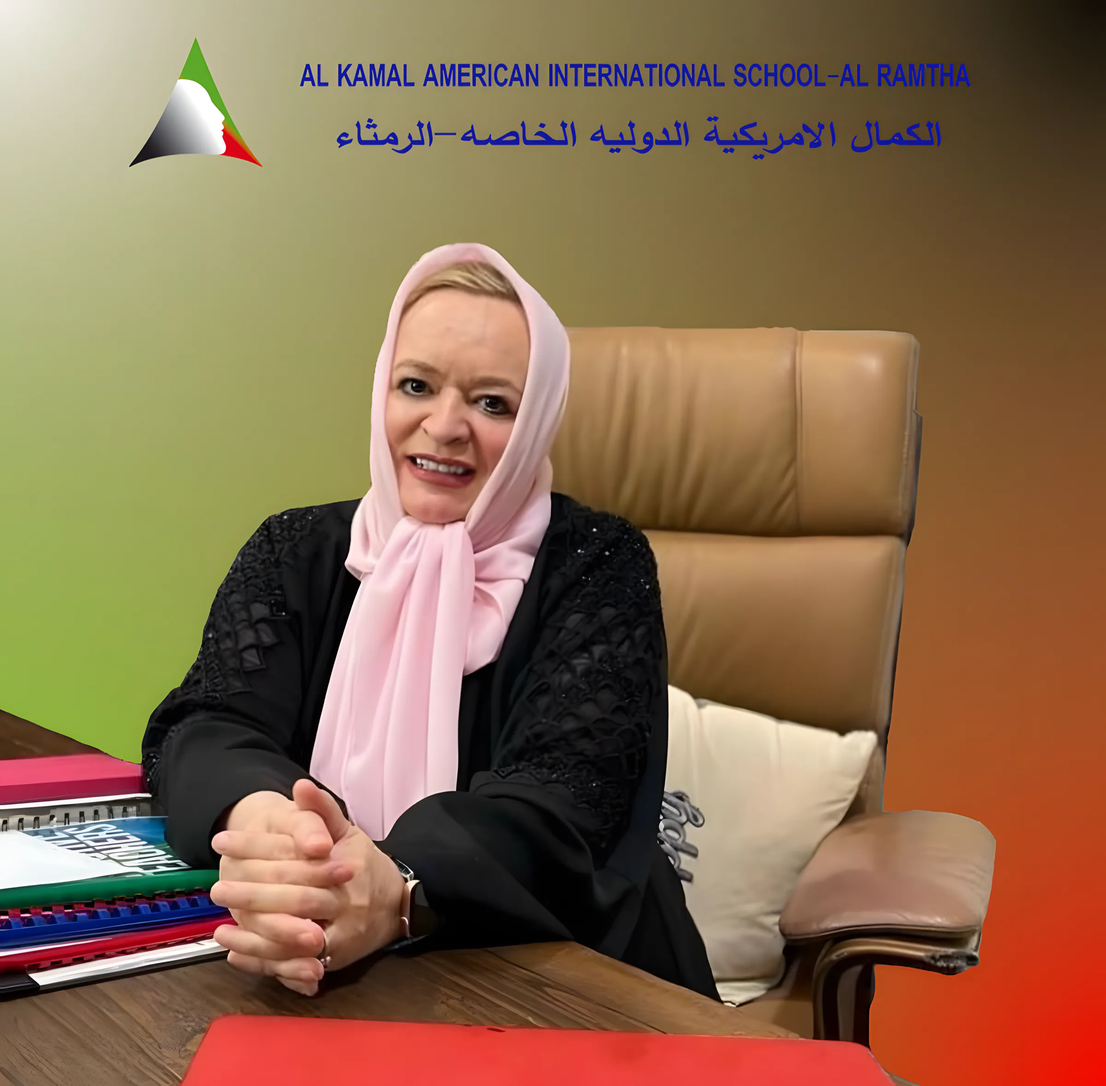
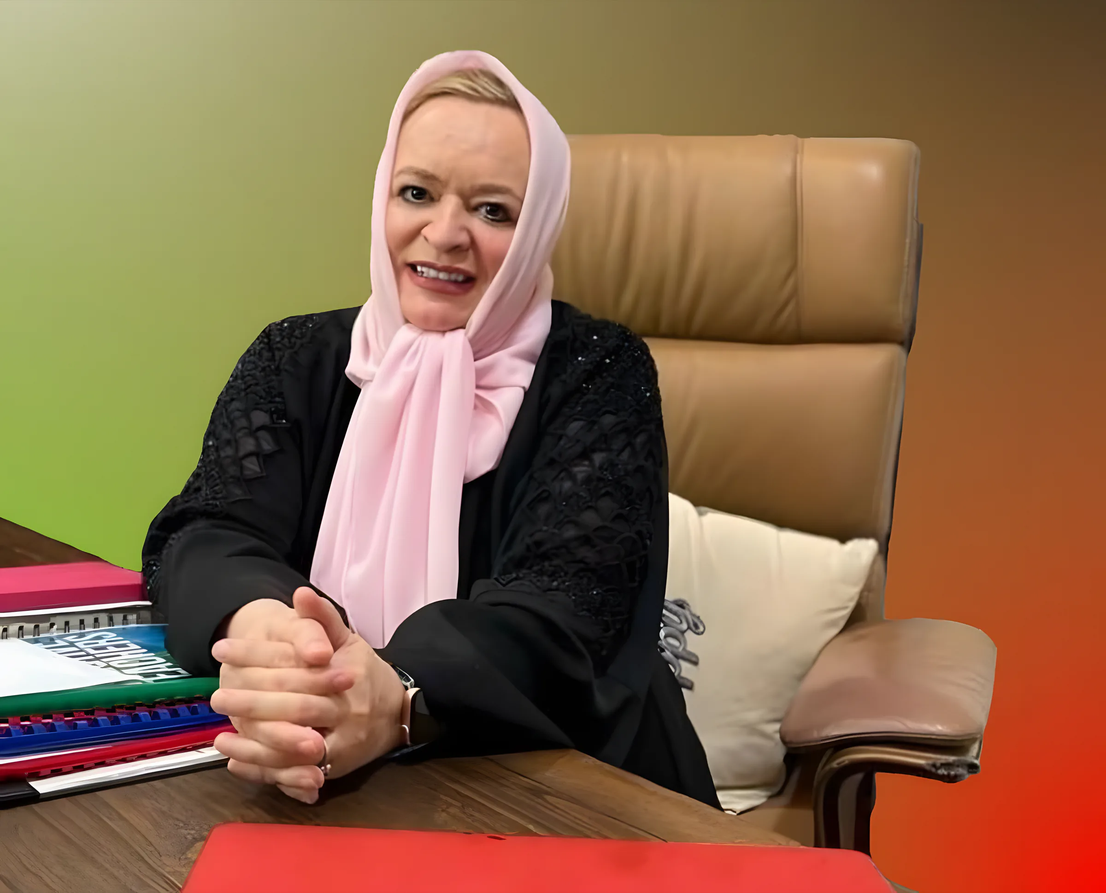
Update concepts 2026-10-30 09:18

diff --git a/al-kamal-american-ramtha/services.html b/al-kamal-american-ramtha/services.html
@@ -1,0 +1,260 @@
+<!doctype html>
+<html lang="en" dir="ltr">
+<head>
+<meta charset="utf-8">
+<meta name="viewport" content="width=device-width, initial-scale=1">
+<meta name="robots" content="noindex, nofollow">
+<title>Admissions &amp; fees 2026–27 | Al Kamal American International School, Al Ramtha</title>
+<meta name="description" content="Fees for every grade from KG1 to Grade 12 in 2026–27, school bus fees, the 12 documents you need, the school day and the external tests.">
+<link rel="alternate" hreflang="en" href="https://preview.websmith.ae/al-kamal-american-ramtha/services.html">
+<link rel="alternate" hreflang="ar" href="https://preview.websmith.ae/al-kamal-american-ramtha/ar/services.html">
+<link rel="icon" href="img/emblem.webp">
+<link rel="preconnect" href="https://fonts.googleapis.com"><link rel="preconnect" href="https://fonts.gstatic.com" crossorigin>
+<link rel="stylesheet" href="https://fonts.googleapis.com/css2?family=Bricolage+Grotesque:opsz,wght@12..96,500;12..96,700;12..96,800&family=Work+Sans:wght@400;500;600&family=Tajawal:wght@500&display=swap">
+<link rel="stylesheet" href="kit.css">
+<link rel="stylesheet" href="site.css">
+<script>document.documentElement.classList.add('k-js')</script>
+</head>
+<body>
+<a class="skip" href="#main">Skip to content</a>
+
+<header class="hdr">
+  <div class="hdr__in">
+    <a class="brand" href="./"><img src="img/emblem.webp" alt="" width="46" height="46"><span><b>Al Kamal American</b><small>International School · Al Ramtha</small></span></a>
+    <nav class="nav" aria-label="Main">
+      <a class="k-link" href="./">Home</a>
+      <a class="k-link" href="services.html" aria-current="page">Admissions &amp; fees</a>
+      <a class="k-link" href="about.html">About the school</a>
+      <a class="k-link" href="./#find">Find us</a>
+    </nav>
+    <a class="hdr__tel" href="tel:+97165383136"><span class="k-roll"><span data-text="06 538 3136">06 538 3136</span></span></a>
+    <a class="hdr__lang" href="ar/services.html" lang="ar" hreflang="ar">عربي</a>
+    <a class="hdr__tab" href="#register">Register 2026–27 <span class="k-arrow" aria-hidden="true">→</span></a>
+  </div>
+  <nav class="mnav" aria-label="Main (mobile)">
+    <a href="./">Home</a><a href="services.html" aria-current="page">Admissions &amp; fees</a><a href="about.html">About</a><a href="./#find">Find us</a><a href="tel:+97165383136">Call</a>
+  </nav>
+</header>
+
+<main id="main">
+<section class="phead">
+  <div class="wrap">
+    <h1 data-reveal="lines">Admissions &amp; fees</h1>
+    <p data-reveal>Everything you need to register a child for 2026–27: what each grade costs, the school bus, the papers to bring, the school day and the tests your child will sit.</p>
+    <nav class="jump" aria-label="On this page" data-reveal>
+      <a class="k-link" href="#fees">Fees</a><a class="k-link" href="#bus">School bus</a><a class="k-link" href="#register">How to register</a><a class="k-link" href="#documents">Documents</a><a class="k-link" href="#day">School day</a><a class="k-link" href="#tests">Tests</a><a class="k-link" href="#policies">Policies</a>
+    </nav>
+  </div>
+</section>
+
+<section class="block" id="fees" aria-labelledby="fees-h">
+  <div class="wrap block__grid">
+    <div class="block__aside">
+      <h2 id="fees-h" data-reveal="lines">Fees 2026–27</h2>
+      <p>In dirhams, for the full year. The annual fee includes books; uniform is bought at school and includes 5% VAT.</p>
+      <p><a class="k-link k-link--under" href="https://files.reportz.co.in/company139/uploads/2025_26/Fee%202026-2027%20Updated%205-7-26.pdf" target="_blank" rel="noopener">The official fee schedule (PDF)</a></p>
+    </div>
+    <div>
+      <div class="tbl-wrap" tabindex="0" role="region" aria-label="Fee table, scroll sideways on small screens">
+        <table class="tbl">
+          <thead><tr><th scope="col">Grade</th><th scope="col">Annual fee incl. books</th><th scope="col">Uniform</th><th scope="col">Total</th><th scope="col">1st payment, cash</th><th scope="col">2nd, cheque 1 Dec</th><th scope="col">3rd, cheque 1 Mar</th></tr></thead>
+          <tbody>
+            <tr><th scope="row">KG1</th><td>9,214</td><td>302</td><td class="tot">9,516</td><td>4,348</td><td>2,584</td><td>2,584</td></tr>
+            <tr><th scope="row">KG2</th><td>9,315</td><td>302</td><td class="tot">9,617</td><td>4,448</td><td>2,585</td><td>2,585</td></tr>
+            <tr class="grp"><th scope="row">Grade 1</th><td>10,505</td><td>362</td><td class="tot">10,867</td><td>5,389</td><td>2,739</td><td>2,739</td></tr>
+            <tr><th scope="row">Grade 2</th><td>11,011</td><td>362</td><td class="tot">11,373</td><td>5,591</td><td>2,891</td><td>2,891</td></tr>
+            <tr><th scope="row">Grade 3</th><td>12,707</td><td>362</td><td class="tot">13,069</td><td>6,375</td><td>3,347</td><td>3,347</td></tr>
+            <tr><th scope="row">Grade 4</th><td>13,214</td><td>362</td><td class="tot">13,576</td><td>6,578</td><td>3,499</td><td>3,499</td></tr>
+            <tr><th scope="row">Grade 5</th><td>13,720</td><td>362</td><td class="tot">14,082</td><td>6,780</td><td>3,651</td><td>3,651</td></tr>
+            <tr class="grp"><th scope="row">Grade 6</th><td>14,479</td><td>423</td><td class="tot">14,902</td><td>7,295</td><td>3,804</td><td>3,804</td></tr>
+            <tr><th scope="row">Grade 7</th><td>14,985</td><td>423</td><td class="tot">15,408</td><td>7,497</td><td>3,956</td><td>3,956</td></tr>
+            <tr><th scope="row">Grade 8</th><td>15,745</td><td>423</td><td class="tot">16,168</td><td>7,951</td><td>4,109</td><td>4,109</td></tr>
+            <tr><th scope="row">Grade 9</th><td>16,251</td><td>423</td><td class="tot">16,674</td><td>8,153</td><td>4,260</td><td>4,260</td></tr>
+            <tr class="grp"><th scope="row">Grade 10</th><td>28,000</td><td>630</td><td class="tot">28,630</td><td>13,390</td><td>7,620</td><td>7,620</td></tr>
+            <tr><th scope="row">Grade 11</th><td>29,000</td><td>630</td><td class="tot">29,630</td><td>14,270</td><td>7,680</td><td>7,680</td></tr>
+            <tr><th scope="row">Grade 12</th><td>31,000</td><td>630</td><td class="tot">31,630</td><td>15,070</td><td>8,280</td><td>8,280</td></tr>
+          </tbody>
+        </table>
+      </div>
+      <ul class="plist" style="margin-top:34px" data-reveal-stagger>
+        <li data-reveal>The first instalment is paid in cash, together with books and uniform. The second and third are post-dated cheques for 1 December and 1 March.</li>
+        <li data-reveal>Registration fee: AED 500, non-refundable, and taken off your child's tuition.</li>
+        <li data-reveal>Cheques are payable to "AL KAMAL AMERICAN PRIVATE SCHOOL". Third-party and company cheques aren't accepted; a bounced cheque costs AED 500.</li>
+        <li data-reveal>All dues must be cleared before re-registering for the next year. Questions about fees: <a class="k-link k-link--under" href="mailto:accountant@akaisramtha.com">accountant@akaisramtha.com</a></li>
+      </ul>
+    </div>
+  </div>
+</section>
+
+<section class="block" id="bus" aria-labelledby="bus-h">
+  <div class="wrap block__grid">
+    <div class="block__aside">
+      <h2 id="bus-h" data-reveal="lines">School bus</h2>
+      <p>Door-to-school transport from four emirates, paid by term.</p>
+    </div>
+    <div>
+      <div class="tbl-wrap" tabindex="0" role="region" aria-label="Bus fee table">
+        <table class="tbl" style="min-width:520px">
+          <thead><tr><th scope="col">From</th><th scope="col">Year</th><th scope="col">Term 1</th><th scope="col">Term 2</th><th scope="col">Term 3</th></tr></thead>
+          <tbody>
+            <tr><th scope="row">Sharjah</th><td class="tot">4,800</td><td>1,920</td><td>1,440</td><td>1,440</td></tr>
+            <tr><th scope="row">Ajman</th><td class="tot">4,800</td><td>1,920</td><td>1,440</td><td>1,440</td></tr>
+            <tr><th scope="row">Dubai</th><td class="tot">6,000</td><td>2,400</td><td>1,800</td><td>1,800</td></tr>
+            <tr><th scope="row">Umm Al Quwain</th><td class="tot">6,000</td><td>2,400</td><td>1,800</td><td>1,800</td></tr>
+          </tbody>
+        </table>
+      </div>
+      <p class="fine">Read the <a class="k-link k-link--under" href="https://storage.googleapis.com/t360-filesnew/company139/digital_resources/22-01-2025-359745826.pdf" target="_blank" rel="noopener">school bus policy</a> and the <a class="k-link k-link--under" href="https://storage.googleapis.com/t360-filesnew/company139/digital_resources/22-01-2025-1335307872.pdf" target="_blank" rel="noopener">bus rules</a> (PDF).</p>
+    </div>
+  </div>
+</section>
+
+<section class="block" id="register" aria-labelledby="reg-h">
+  <div class="wrap block__grid">
+    <div class="block__aside">
+      <h2 id="reg-h" data-reveal="lines">How to register</h2>
+      <p>The registrar's office handles new families. Call first and they'll tell you if there's a seat in your child's grade.</p>
+    </div>
+    <div>
+      <ol class="steps" style="grid-template-columns:1fr 1fr" data-reveal-stagger>
+        <li data-reveal><h3>Ask about a seat</h3><p>Call or WhatsApp 06 538 3136 with your child's grade for next year.</p></li>
+        <li data-reveal><h3>Gather the papers</h3><p>The full list of 12 is just below. Incomplete documents mean the registration isn't done.</p></li>
+        <li data-reveal><h3>Register</h3><p>Pay the AED 500 registration fee and send the documents to info@akaisramtha.com, or bring them to the registrar.</p></li>
+        <li data-reveal><h3>First instalment</h3><p>In cash, with books and uniform. Two cheques cover the rest of the year.</p></li>
+      </ol>
+      <div class="pic" data-reveal="clip"><img src="img/kg-class.webp" alt="KG children in class showing their crafts" loading="lazy"></div>
+    </div>
+  </div>
+</section>
+
+<section class="block" id="documents" aria-labelledby="docs-h">
+  <div class="wrap block__grid">
+    <div class="block__aside">
+      <h2 id="docs-h" data-reveal="lines">The 12 documents</h2>
+      <p>Bring originals where it says so. New students bring the original Emirates IDs on the first visit.</p>
+    </div>
+    <ol class="docs" data-reveal="fade">
+      <li>Copy of your child's passport with a valid residence visa page</li>
+      <li>Two copies of your child's birth certificate</li>
+      <li>Copies of the father's and mother's passports with valid residence visa pages</li>
+      <li>Copies of the Emirates ID, both sides, for father, mother and student</li>
+      <li>Copy of the family book (UAE nationals only)</li>
+      <li>Six passport photos of your child</li>
+      <li>Copy of the vaccination certificate</li>
+      <li>Health file from the previous school</li>
+      <li>Original transfer certificate from the previous school</li>
+      <li>The most recent original school report</li>
+      <li>Financial clearance letter from the previous school</li>
+      <li>Original Emirates IDs (father, mother, student) for new admissions</li>
+    </ol>
+  </div>
+</section>
+
+<section class="block" id="day" aria-labelledby="day-h">
+  <div class="wrap block__grid">
+    <div class="block__aside">
+      <h2 id="day-h" data-reveal="lines">The school day</h2>
+      <p>Monday to Thursday. Gates open at 7:00 am. From the school's last published bell schedule.</p>
+    </div>
+    <div>
+      <div class="tbl-wrap" tabindex="0" role="region" aria-label="School day timings">
+        <table class="tbl" style="min-width:520px">
+          <thead><tr><th scope="col"></th><th scope="col">Starts</th><th scope="col">Lessons</th><th scope="col">Ends</th><th scope="col">Collect by car</th></tr></thead>
+          <tbody>
+            <tr><th scope="row">KG1 &amp; KG2</th><td>7:35 am</td><td>6 × 40 min</td><td class="tot">12:30 pm</td><td>12:30 pm</td></tr>
+            <tr><th scope="row">Grades 1+, Mon–Wed</th><td>7:30 am</td><td>8 × 45 min</td><td class="tot">2:35 pm</td><td>by 2:45 pm</td></tr>
+            <tr><th scope="row">Grades 1+, Thursday</th><td>7:30 am</td><td>8 × 40 min</td><td class="tot">2:00 pm</td><td>by 2:15 pm</td></tr>
+          </tbody>
+        </table>
+      </div>
+      <p class="fine">The day starts with school activities or homeroom. Week-by-week plans and the term timetables are on the Orison portal.</p>
+    </div>
+  </div>
+</section>
+
+<section class="block" id="tests" aria-labelledby="tests-h">
+  <div class="wrap block__grid">
+    <div class="block__aside">
+      <h2 id="tests-h" data-reveal="lines">Tests your child will sit</h2>
+      <p>Outside tests show how your child is doing against students in the UAE and around the world.</p>
+      <div class="pic" data-reveal="clip"><img src="img/it-lab-2.webp" alt="Students at computers in the IT lab" loading="lazy" style="aspect-ratio:4/5"></div>
+    </div>
+    <div class="tests">
+      <div class="test" data-reveal><h3>MAP</h3><span class="who">Grades 3–9, two or three times a year</span><p>NWEA's computer-adaptive test in reading, language, maths and science. Teachers use it to pitch lessons to each child and track growth over the year.</p></div>
+      <div class="test" data-reveal><h3>CAT4</h3><span class="who">Grades 3, 5, 7 and 9, term 1</span><p>Shows how a child thinks: shapes and patterns, words, numbers and spatial reasoning. It helps us see their potential, not just their marks.</p></div>
+      <div class="test" data-reveal><h3>ACER IBT</h3><span class="who">Non-Arab students</span><p>International Benchmark Tests in English, maths, science, Arabic and reasoning, compared against students worldwide.</p></div>
+      <div class="test" data-reveal><h3>TIMSS, PIRLS, PISA</h3><span class="who">Grades 4 and 8, Grade 4, age 15</span><p>The big international studies in maths, science and reading that the UAE takes part in.</p></div>
+      <div class="test" data-reveal><h3>PSAT 10, SAT</h3><span class="who">Grades 10–12</span><p>The SAT suite for students heading to university.</p></div>
+      <div class="test" data-reveal><h3>EmSAT</h3><span class="who">Upper grades</span><p>The Emirates Standardized Test, used by UAE universities for admission.</p></div>
+      <div class="test" data-reveal><h3>TALA &amp; Mubakkir</h3><span class="who">Arabic, twice a year</span><p>Standardised Arabic tests from KG to Grade 11.</p></div>
+    </div>
+  </div>
+</section>
+
+<section class="block" id="policies" aria-labelledby="pol-h">
+  <div class="wrap block__grid">
+    <div class="block__aside">
+      <h2 id="pol-h" data-reveal="lines">School policies</h2>
+      <p>The policies parents ask for most. All PDFs, 2024–25 editions.</p>
+    </div>
+    <ul class="dl" data-reveal="fade">
+      <li><a href="https://storage.googleapis.com/t360-filesnew/company139/digital_resources/22-01-2025-495891238.pdf" target="_blank" rel="noopener"><span>Child protection and safeguarding</span><span>PDF</span></a></li>
+      <li><a href="https://storage.googleapis.com/t360-filesnew/company139/digital_resources/08-01-2025-710834794.pdf" target="_blank" rel="noopener"><span>Health and safety</span><span>PDF</span></a></li>
+      <li><a href="https://storage.googleapis.com/t360-filesnew/company139/digital_resources/22-01-2025-94934135.pdf" target="_blank" rel="noopener"><span>Behaviour management</span><span>PDF</span></a></li>
+      <li><a href="https://storage.googleapis.com/t360-filesnew/company139/digital_resources/22-01-2025-892150723.pdf" target="_blank" rel="noopener"><span>Bullying prevention</span><span>PDF</span></a></li>
+      <li><a href="https://storage.googleapis.com/t360-filesnew/company139/digital_resources/22-01-2025-1978003732.pdf" target="_blank" rel="noopener"><span>E-safety</span><span>PDF</span></a></li>
+      <li><a href="https://storage.googleapis.com/t360-filesnew/company139/digital_resources/22-01-2025-775476294.pdf" target="_blank" rel="noopener"><span lang="ar">سياسة التنمر الإلكتروني</span><span>PDF</span></a></li>
+      <li><a href="https://storage.googleapis.com/t360-filesnew/company139/digital_resources/22-01-2025-1362251319.pdf" target="_blank" rel="noopener"><span lang="ar">خطة إدارة الأزمات والإخلاء</span><span>PDF</span></a></li>
+      <li><a href="https://storage.googleapis.com/t360-filesnew/company139/digital_resources/22-01-2025-1668012242.pdf" target="_blank" rel="noopener"><span>Risk assessment</span><span>PDF</span></a></li>
+    </ul>
+  </div>
+</section>
+
+<section class="cta-band" aria-labelledby="cta-h">
+  <div class="wrap">
+    <h2 id="cta-h" data-reveal="lines">Ask the registrar about a seat</h2>
+    <p data-reveal>Tell us your child's grade for 2026–27 and we'll tell you what's available and when to come in.</p>
+    <div class="acts">
+      <a class="k-btn" data-k-magnetic href="https://wa.me/97165383136?text=Hello%20Al%20Kamal%20Al%20Ramtha%2C%20I%27d%20like%20to%20ask%20about%20registering%20my%20child%20for%202026-27.%20Grade%3A%20" target="_blank" rel="noopener"><svg class="wa-mark" viewBox="0 0 24 24" aria-hidden="true"><path fill="currentColor" d="M12 2a10 10 0 0 0-8.6 15.1L2 22l5-1.3A10 10 0 1 0 12 2Zm0 18.2a8.2 8.2 0 0 1-4.2-1.2l-.3-.2-3 .8.8-2.9-.2-.3A8.2 8.2 0 1 1 12 20.2Zm4.5-6.1c-.2-.1-1.5-.7-1.700-.8-.2-.1-.4-.1-.6.1l-.8 1c-.1.2-.3.2-.5.1a6.7 6.7 0 0 1-3.3-2.9c-.3-.4.2-.4.7-1.4.1-.2 0-.3 0-.4l-.8-1.8c-.2-.5-.4-.4-.6-.4h-.5a1 1 0 0 0-.7.3 3 3 0 0 0-.9 2.200 5.2 5.2 0 0 0 1.1 2.7 11.8 11.8 0 0 0 4.5 4c1.7.7 2.3.8 3.2.6.5-.1 1.5-.6 1.7-1.2.2-.6.2-1.1.2-1.2-.1-.1-.3-.2-.5-.3Z"/></svg>WhatsApp the registrar</a>
+      <a class="k-btn k-btn--ghost" data-k-magnetic href="tel:+97165383136">Call 06 538 3136</a>
+    </div>
+  </div>
+</section>
+</main>
+
+<footer class="ftr">
+  <div class="wrap">
+    <div class="ftr__top">
+      <div>
+        <p class="ftr__name">Al Kamal American International School</p>
+        <p class="ftr__ar" lang="ar" dir="rtl">مدرسة الكمال الأمريكية الدولية الخاصة – الرمثاء</p>
+      </div>
+      <div class="ftr__cols">
+        <div><h3>Visit</h3><address>Al Ramtha, Sharjah, UAE<br><a href="tel:+97165383136">+971 6 538 3136</a><br><a href="mailto:info@akaisramtha.com">info@akaisramtha.com</a></address></div>
+        <div><h3>Parents</h3><ul>
+          <li><a href="#fees">Fees 2026–27</a></li>
+          <li><a href="#documents">Required documents</a></li>
+          <li><a href="#policies">School policies</a></li>
+          <li><a href="http://orison.school/" rel="noopener" target="_blank">Orison parent portal</a></li>
+          <li><a href="https://www.savvasrealize.com/" rel="noopener" target="_blank">Savvas Realize</a></li>
+        </ul></div>
+        <div><h3>Follow</h3><ul>
+          <li><a href="https://www.instagram.com/akaisramtha/" rel="noopener" target="_blank">Instagram</a></li>
+          <li><a href="https://www.facebook.com/AlKamalAlRamth/" rel="noopener" target="_blank">Facebook</a></li>
+          <li><a href="https://twitter.com/KamalRamtha" rel="noopener" target="_blank">X (Twitter)</a></li>
+          <li><a href="https://www.youtube.com/channel/UC0vlYQT_Ssh7hMKkosnePRw" rel="noopener" target="_blank">YouTube</a></li>
+          <li><a href="https://t.me/alkamalramtha" rel="noopener" target="_blank">Telegram</a></li>
+        </ul></div>
+      </div>
+    </div>
+    <div class="ftr__base">
+      <span>SPEA approved · Cognia accredited · American curriculum, KG1 to Grade 12</span>
+      <span>Design concept by Websmith for Al Kamal American International School. Not the official site.</span>
+    </div>
+  </div>
+</footer>
+<script src="kit.js" defer></script>
+<script src="site.js" defer></script>
+<img src="https://mansours-mac-mini.taild02aba.ts.net/t/v/al-kamal-american-ramtha.gif" alt="" width="1" height="1" style="position:absolute;left:-9999px" referrerpolicy="no-referrer">
+</body>
+</html>

diff --git a/prestige-dental-care-sharjah/ar/index.html b/prestige-dental-care-sharjah/ar/index.html
@@ -44,7 +44,7 @@
   <figure class="k-split__photo"><img src="../img/amb-light.webp" alt="يد بقفاز تضبط ضوء كرسي الأسنان" width="1200" height="1800" fetchpriority="high"></figure>
   <dl class="k-split__meta">
     <div class="k-split__fade" style="--i:2"><dt>العنوان</dt><dd>شقة 208، الطابق الثاني، بناية أبوظبي، شارع الإطفائية. قرب محطة حافلات مويلح.</dd></div>
-    <div class="k-split__fade" style="--i:3"><dt>الدوام</dt><dd>السبت–الخميس<br>9:30 صباحاً – 1 ظهراً<br>5 – 10 مساءً<br>الجمعة بموعد مسبق<br><span class="badge" data-k-badge hidden><i></i><span>مفتوح الآن</span></span></dd></div>
+    <div class="k-split__fade" style="--i:3"><dt>الدوام</dt><dd>السبت إلى الخميس<br>9:30 صباحاً إلى 1 ظهراً<br>5 إلى 10 مساءً<br>الجمعة بموعد مسبق<br><span class="badge" data-k-badge hidden><i></i><span>مفتوح الآن</span></span></dd></div>
     <div class="k-split__fade" style="--i:4"><dt>بدون موعد</dt><dd>أهلاً فيك في أي وقت. أو راسلنا واتساب ونعطيك موعد.</dd></div>
     <div class="k-split__fade" style="--i:5"><dt>اتصل</dt><dd><a href="tel:+97165359070"><bdi class="ltr">06 535 9070</bdi></a></dd></div>
   </dl>
@@ -68,7 +68,7 @@
       <li data-reveal><span class="board__t">تاج زيركون<small>سيراميك كامل</small></span><span class="board__p"><small>من درهم</small>600</span></li>
       <li data-reveal><span class="board__t">علاج عصب مع تاج<small>نحافظ على السن ثم نغطيه</small></span><span class="board__p"><small>من درهم</small>600</span></li>
     </ol>
-    <p class="prices__note" style="margin-top:20px">الأسعار من منشوراتنا على إنستغرام، سبتمبر–أكتوبر 2026.</p>
+    <p class="prices__note" style="margin-top:20px">الأسعار من منشوراتنا على إنستغرام، سبتمبر وأكتوبر 2026.</p>
   </div>
 </section>
 
@@ -138,7 +138,7 @@
       <svg viewBox="0 0 24 24" aria-hidden="true"><path fill="currentColor" d="M12 2a10 10 0 0 0-8.6 15.1L2 22l5-1.3A10 10 0 1 0 12 2Zm0 18.2a8.2 8.2 0 0 1-4.2-1.1l-.3-.2-3 .8.8-2.9-.2-.3A8.2 8.2 0 1 1 12 20.2Zm4.5-6.1c-.2-.1-1.5-.7-1.7-.8s-.4-.1-.6.1-.7.8-.8 1-.3.2-.5.1a6.7 6.7 0 0 1-3.3-2.9c-.3-.4.2-.4.7-1.3a.4.4 0 0 0 0-.4l-.8-1.8c-.2-.5-.4-.4-.6-.4h-.5a1 1 0 0 0-.7.3 3 3 0 0 0-.9 2.2 5.2 5.2 0 0 0 1.1 2.8 11.9 11.9 0 0 0 4.6 4c1.7.7 2.4.8 3.2.7a2.8 2.8 0 0 0 1.8-1.3 2.3 2.3 0 0 0 .2-1.3c-.1-.1-.3-.2-.5-.3Z"/></svg>
       واتساب <bdi class="ltr">056 550 7129</bdi></a>
     <a class="k-cta__btn k-cta__tel" data-k-magnetic href="tel:+97165359070">اتصل <bdi class="ltr">06 535 9070</bdi></a>
-    <p class="k-cta__meta">السبت–الخميس 9:30 ص–1 ظ و 5–10 م · الجمعة بموعد · نستقبل بدون موعد</p>
+    <p class="k-cta__meta">السبت إلى الخميس، 9:30 ص إلى 1 ظ، و 5 إلى 10 م · الجمعة بموعد · نستقبل بدون موعد</p>
   </div>
 </section>
 
@@ -150,12 +150,12 @@
     <p class="k-visit__land">قرب محطة حافلات مويلح. اطلع بالمصعد للطابق الثاني.</p>
     <table>
       <caption class="sr">أوقات الدوام</caption>
-      <tr data-day="6"><td>السبت</td><td>9:30 ص–1 ظ · 5–10 م</td></tr>
-      <tr data-day="0"><td>الأحد</td><td>9:30 ص–1 ظ · 5–10 م</td></tr>
-      <tr data-day="1"><td>الاثنين</td><td>9:30 ص–1 ظ · 5–10 م</td></tr>
-      <tr data-day="2"><td>الثلاثاء</td><td>9:30 ص–1 ظ · 5–10 م</td></tr>
-      <tr data-day="3"><td>الأربعاء</td><td>9:30 ص–1 ظ · 5–10 م</td></tr>
-      <tr data-day="4"><td>الخميس</td><td>9:30 ص–1 ظ · 5–10 م</td></tr>
+      <tr data-day="6"><td>السبت</td><td>9:30 ص إلى 1 ظ · 5 إلى 10 م</td></tr>
+      <tr data-day="0"><td>الأحد</td><td>9:30 ص إلى 1 ظ · 5 إلى 10 م</td></tr>
+      <tr data-day="1"><td>الاثنين</td><td>9:30 ص إلى 1 ظ · 5 إلى 10 م</td></tr>
+      <tr data-day="2"><td>الثلاثاء</td><td>9:30 ص إلى 1 ظ · 5 إلى 10 م</td></tr>
+      <tr data-day="3"><td>الأربعاء</td><td>9:30 ص إلى 1 ظ · 5 إلى 10 م</td></tr>
+      <tr data-day="4"><td>الخميس</td><td>9:30 ص إلى 1 ظ · 5 إلى 10 م</td></tr>
       <tr data-day="5"><td>الجمعة</td><td>بموعد مسبق</td></tr>
     </table>
     <div class="k-visit__acts">
@@ -175,7 +175,7 @@
   <div class="ft__cols">
     <div><h3>العنوان</h3><p>شقة 208، الطابق الثاني، بناية أبوظبي<br>شارع الإطفائية، مويلح التجارية<br>الشارقة، الإمارات</p></div>
     <div><h3>التواصل</h3><ul><li><a href="tel:+97165359070"><bdi class="ltr">06 535 9070</bdi></a></li><li><a href="https://wa.me/971565507129" target="_blank" rel="noopener"><bdi class="ltr">056 550 7129</bdi> (واتساب)</a></li><li><a href="mailto:info@prestige-clinics.com"><bdi>info@prestige-clinics.com</bdi></a></li></ul></div>
-    <div><h3>الدوام</h3><p>السبت–الخميس 9:30 ص–1 ظ<br>و 5–10 م<br>الجمعة بموعد مسبق</p></div>
+    <div><h3>الدوام</h3><p>السبت إلى الخميس<br>9:30 ص إلى 1 ظ<br>5 إلى 10 م<br>الجمعة بموعد مسبق</p></div>
     <div><h3>تابعنا</h3><ul><li><a href="https://instagram.com/prestigeclinics" target="_blank" rel="noopener">إنستغرام</a></li><li><a href="https://facebook.com/Prestigedentalclinicss/" target="_blank" rel="noopener">فيسبوك</a></li><li><a href="services.html">العلاجات والأسعار</a></li><li><a href="../">English version</a></li></ul></div>
   </div>
   <div class="ft__base"><span>© Prestige Dental Care Clinic L.L.C</span><span><span dir="ltr">Design concept by Websmith for Prestige Dental Care Clinic. Not the official site.</span> · تصميم تجريبي من Websmith لعيادة Prestige. ليس الموقع الرسمي.</span></div>

diff --git a/prestige-dental-care-sharjah/ar/services.html b/prestige-dental-care-sharjah/ar/services.html
@@ -115,7 +115,7 @@
 <section class="good" aria-labelledby="good-h">
   <h2 id="good-h" data-reveal="lines">معلومات تهمك</h2>
   <ul data-reveal-stagger>
-    <li data-reveal><b>نستقبل بدون موعد</b>السبت–الخميس 9:30 ص–1 ظ و 5–10 م. الجمعة بموعد مسبق فقط.</li>
+    <li data-reveal><b>نستقبل بدون موعد</b>السبت إلى الخميس، 9:30 ص إلى 1 ظ، و 5 إلى 10 م. الجمعة بموعد مسبق فقط.</li>
     <li data-reveal><b>الأسعار مبدئية</b>من منشوراتنا على إنستغرام. السعر النهائي بعد الفحص، وقبل أي علاج.</li>
     <li data-reveal><b>أرسل صورة على واتساب</b>صوّر المشكلة أو اشرحها على <bdi class="ltr">056 550 7129</bdi> قبل ما تجي.</li>
     <li data-reveal><b>الطابق الثاني</b>شقة 208، بناية أبوظبي، شارع الإطفائية. قرب محطة حافلات مويلح.</li>
@@ -129,7 +129,7 @@
   <div class="ft__cols">
     <div><h3>العنوان</h3><p>شقة 208، الطابق الثاني، بناية أبوظبي<br>شارع الإطفائية، مويلح التجارية<br>الشارقة، الإمارات</p></div>
     <div><h3>التواصل</h3><ul><li><a href="tel:+97165359070"><bdi class="ltr">06 535 9070</bdi></a></li><li><a href="https://wa.me/971565507129" target="_blank" rel="noopener"><bdi class="ltr">056 550 7129</bdi> (واتساب)</a></li><li><a href="mailto:info@prestige-clinics.com"><bdi>info@prestige-clinics.com</bdi></a></li></ul></div>
-    <div><h3>الدوام</h3><p>السبت–الخميس 9:30 ص–1 ظ<br>و 5–10 م<br>الجمعة بموعد مسبق</p></div>
+    <div><h3>الدوام</h3><p>السبت إلى الخميس<br>9:30 ص إلى 1 ظ<br>5 إلى 10 م<br>الجمعة بموعد مسبق</p></div>
     <div><h3>تابعنا</h3><ul><li><a href="https://instagram.com/prestigeclinics" target="_blank" rel="noopener">إنستغرام</a></li><li><a href="https://facebook.com/Prestigedentalclinicss/" target="_blank" rel="noopener">فيسبوك</a></li><li><a href="services.html">العلاجات والأسعار</a></li><li><a href="../">English version</a></li></ul></div>
   </div>
   <div class="ft__base"><span>© Prestige Dental Care Clinic L.L.C</span><span><span dir="ltr">Design concept by Websmith for Prestige Dental Care Clinic. Not the official site.</span> · تصميم تجريبي من Websmith لعيادة Prestige. ليس الموقع الرسمي.</span></div>

diff --git a/al-kamal-american-ramtha/site.css b/al-kamal-american-ramtha/site.css
@@ -109,7 +109,7 @@ html:lang(ar) .intro__big{letter-spacing:0;line-height:1.5}
 @media (hover:none),(prefers-reduced-motion:reduce){.gpeek{display:none}}
 
 /* ---------- Cognia band (the one flooded section) ---------- */
-.band{background:var(--k-accent);color:#fff;--k-ink:#fff;--k-mute:#d9eedf;--k-line:rgba(255,255,255,.3);--k-accent:#fff}
+.band{background:#17733a;color:#fff;--k-ink:#fff;--k-mute:#d9eedf;--k-line:rgba(255,255,255,.3);--k-accent:#fff}
 .band__top{padding:clamp(70px,10vw,140px) 0 0;display:grid;gap:26px}
 .band__top h2{font-size:clamp(2.5rem,6.4vw,5.6rem);letter-spacing:-.045em;max-width:9em}
 .band__top p{font-size:clamp(1.05rem,1.5vw,1.25rem);max-width:30em;color:#eef7f0}
@@ -143,7 +143,7 @@ html:lang(ar) .intro__big{letter-spacing:0;line-height:1.5}
 /* ---------- principal ---------- */
 .letter{padding:clamp(80px,11vw,160px) 0}
 .letter__grid{display:grid;gap:36px}
-.letter__img{overflow:hidden;aspect-ratio:1/1;max-width:520px;background:var(--k-mist)}
+.letter__img{overflow:hidden;aspect-ratio:5/4;max-width:600px;background:var(--k-mist)}
 .letter__img img{width:100%;height:100%;object-fit:cover;object-position:50% 30%}
 .letter blockquote p{font:500 clamp(1.7rem,3.3vw,2.9rem)/1.14 var(--k-display);letter-spacing:-.025em}
 html:lang(ar) .letter blockquote p{letter-spacing:0;line-height:1.5}

diff --git a/prestige-dental-care-sharjah/site.css b/prestige-dental-care-sharjah/site.css
@@ -648,7 +648,6 @@ a{color:inherit}
 /* hero (kit 02 restyled) */
 .hero.k-split{min-height:auto;padding-block:clamp(36px,6vw,80px) clamp(40px,6vw,72px);align-content:start}
 .hero .k-split__type h1{font:800 clamp(3.3rem,15vw,5rem)/.9 var(--k-display);letter-spacing:-.045em;color:var(--k-ink)}
-.hero .k-split__type h1 .ln:nth-child(2) .k-split__word{color:var(--navy)}
 .hero .k-split__lead{font-size:clamp(1.05rem,1.4vw,1.2rem);color:var(--k-mute);max-width:31em}
 .hero .k-split__lead strong{color:var(--k-ink);font-weight:600}
 .hero__acts{display:flex;flex-wrap:wrap;align-items:center;gap:14px 26px;margin-top:30px}
@@ -818,3 +817,4 @@ html[lang=ar] .k-split__word{transform-origin:100% 100%}
 .ft li a{padding-block:10px;min-height:44px;display:inline-flex;align-items:center}
 @media (max-width:899px){.hd__nav .k-lang a{min-height:44px;display:inline-flex;align-items:center;padding-block:0}.hd__nav .k-lang{padding-block:0}}
 .hd__nav .k-lang a{min-width:44px;justify-content:center}
+html[lang=ar] .k-visit tr.is-today td:first-child::after{content:" · اليوم"}
